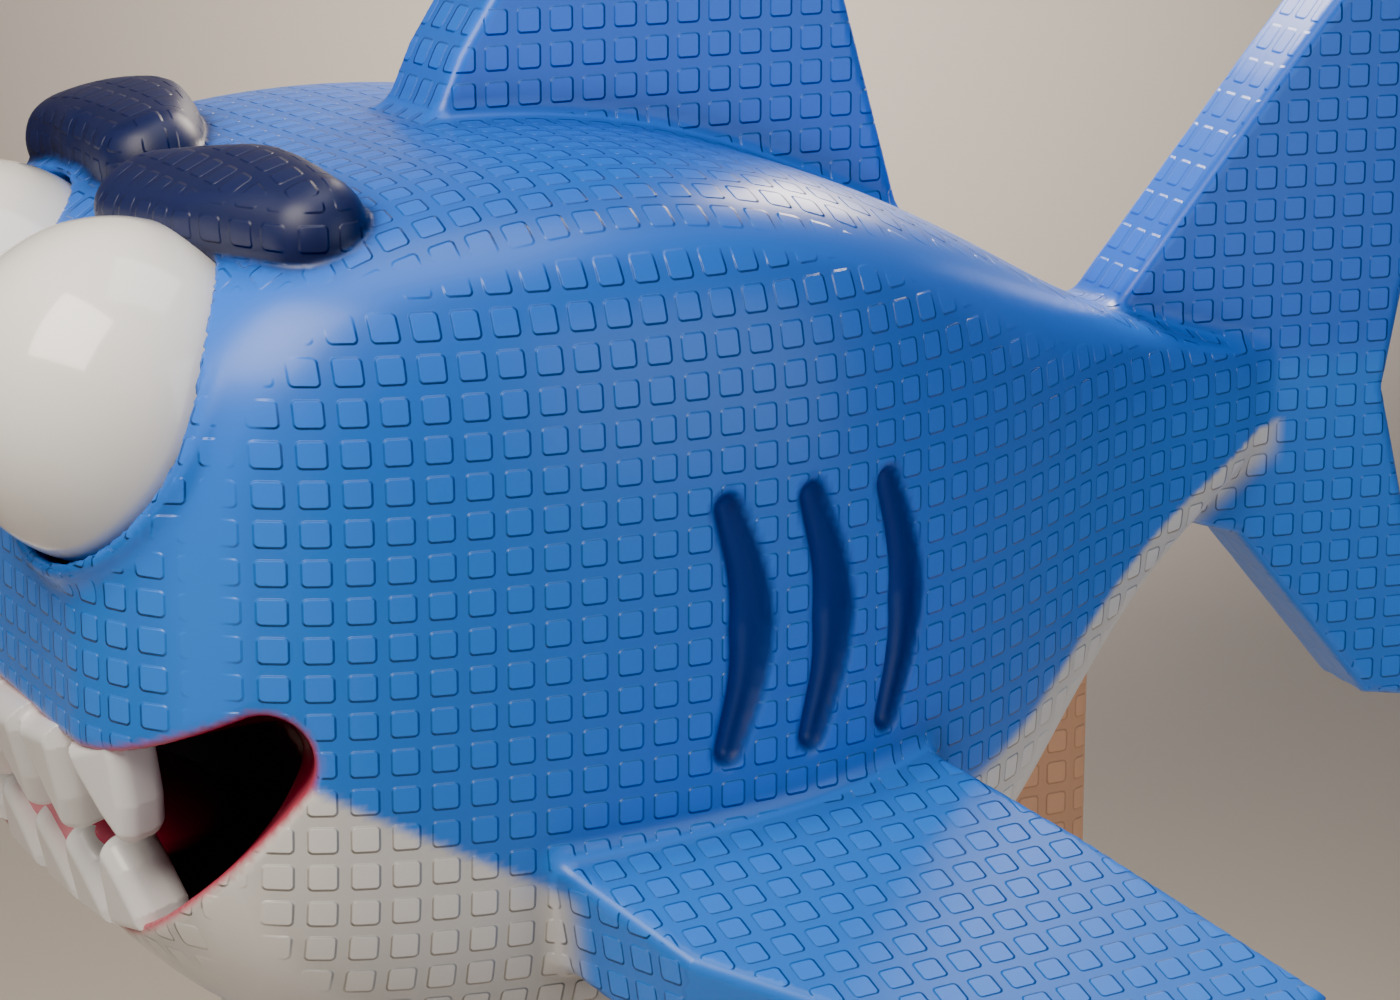
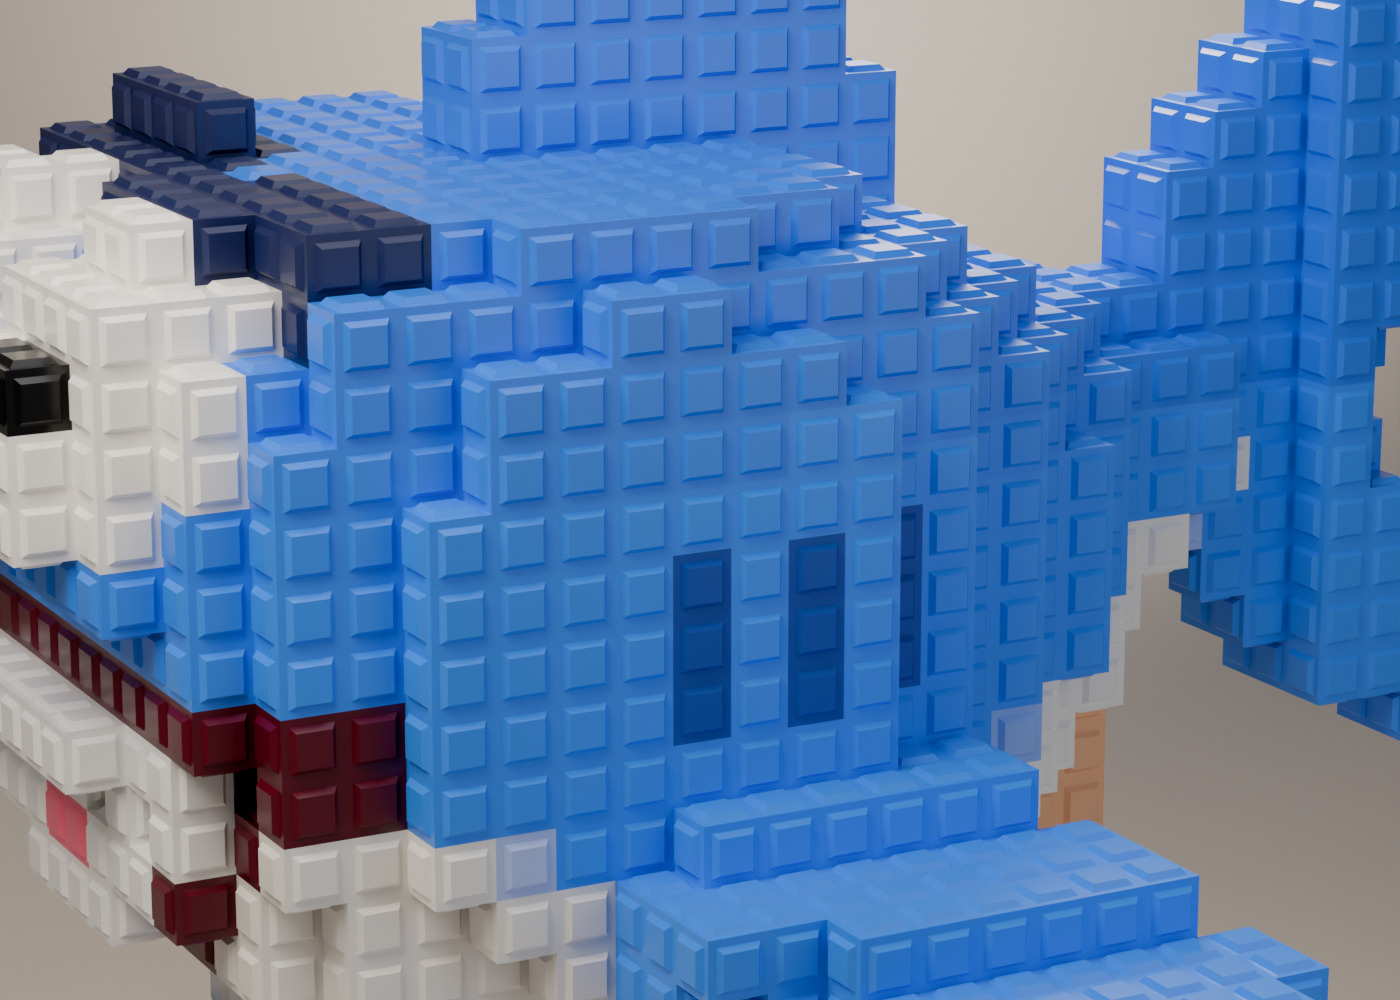
Rebuild the Tralalero benchmark as a brick-built model
Match the brick-built look of popular Roblox brainrot games with our own
design: the Tralalero distance fields are sampled on a grid of 0.2-stud
bricks, every visible brick face gets a raised bevelled square stud, and
each brick takes one flat colour from the character's paint.

Brick-sized details are drawn explicitly so they read cleanly: blocky
eyes with black pupil bricks, three gill stripes, sock band, white laces,
and a white sole with a dark bottom layer. The body used for bricks skips
the gill grooves, which are thinner than a brick.

Adds tools/models/bricks.py and a --bricks option to build.py.

Claude-Session: https://claude.ai/code/session_01XpVJoYHCbEBYXTu2jdQB4F

diff --git a/tools/models/build.py b/tools/models/build.py
@@ -22,6 +22,7 @@ HERE = Path(__file__).resolve().parent
 sys.path.insert(0, str(HERE))
 sys.path.insert(0, str(HERE / "characters"))
 
+import bricks  # noqa: E402
 import scene  # noqa: E402
 import sdf  # noqa: E402
 
@@ -211,6 +212,53 @@ def studio(azimuth, target, radius):
     scene.world(color="#dfe3ea", strength=0.25)
 
 
+def build_bricks(look, meshes, size):
+    """The character rebuilt from studded bricks: one flat-shaded mesh with per-brick colours."""
+    t0 = time.time()
+    parts = [m[0] for m in meshes]
+    fns = [p.get("brick_fn", p["fn"]) for p in parts]
+    eyes = getattr(look, "EYES", [])
+    for eye in eyes:
+        fns.append(lambda p, e=eye: sdf.sphere(p, e["center"], e["radius"]))
+    los = [np.asarray(p["box"][0]) for p in parts] + [e["center"] - e["radius"] for e in eyes]
+    his = [np.asarray(p["box"][1]) for p in parts] + [e["center"] + e["radius"] for e in eyes]
+    lo = np.min(los, axis=0)
+    lo[2] = 0.0
+    origin, solid, owner, _ = bricks.voxelize(fns, lo, np.max(his, axis=0), size)
+    colors = np.zeros(solid.shape + (3,))
+    rough = np.full(solid.shape, 0.42)
+    shows = np.any(bricks.exposed_faces(solid), axis=0)
+    for k, fn in enumerate(fns):
+        idx = np.argwhere(shows & (owner == k))
+        if not len(idx):
+            continue
+        centres = origin + (idx + 0.5) * size
+        if k < len(parts):
+            part = parts[k]
+            paint = part.get("base_paint", part["paint"])
+            col, attrs, points, normals = bricks.surface_colors(fn, paint, centres, size)
+            if hasattr(look, "brick_colors"):
+                col = look.brick_colors(part["name"], points, normals, col, size)
+            r = attrs["Roughness"]
+        else:
+            eye = eyes[k - len(parts)]
+            col, r = look.brick_eye_colors(eye, centres, size)
+        colors[idx[:, 0], idx[:, 1], idx[:, 2]] = col
+        rough[idx[:, 0], idx[:, 1], idx[:, 2]] = r
+    packed = np.concatenate([colors, rough[..., None]], axis=-1)
+    verts, faces, cols, _ = bricks.brick_mesh(origin, size, solid, packed)
+    n = len(verts)
+    attrs = {
+        "Roughness": cols[:, 3],
+        "CoatWeight": np.full(n, 0.08),
+        "SubsurfaceWeight": np.zeros(n),
+        "SheenWeight": np.zeros(n),
+        "Studs": np.zeros(n),
+    }
+    print(f"bricks: {int(solid.sum()):,} bricks, {int(shows.sum()):,} showing, {len(faces):,} triangles in {time.time() - t0:.1f}s", flush=True)
+    return verts, faces, cols[:, :3], attrs
+
+
 def main():
     parser = argparse.ArgumentParser()
     parser.add_argument("character")
@@ -223,6 +271,7 @@ def main():
     parser.add_argument("--skip", default="", help="comma-separated part names to leave out (debugging)")
     parser.add_argument("--decimate", type=int, default=None, help="preview at a game budget: total triangles")
     parser.add_argument("--game", action="store_true", help="render the in-game meshes: each part cut to its budget")
+    parser.add_argument("--bricks", type=float, default=None, help="build the character from studded bricks of this size")
     args = parser.parse_args()
 
     geometry = importlib.import_module(args.character)
@@ -244,7 +293,11 @@ def main():
         col, attrs = part["paint"](verts, normals)
         painted.append((part, verts, faces, normals, col, attrs))
 
-    all_points = np.vstack([m[1][:: max(1, len(m[1]) // 3000)] for m in meshes])
+    brick_model = build_bricks(look, meshes, args.bricks) if args.bricks else None
+    if brick_model:
+        all_points = brick_model[0][:: max(1, len(brick_model[0]) // 6000)]
+    else:
+        all_points = np.vstack([m[1][:: max(1, len(m[1]) // 3000)] for m in meshes])
     lo = all_points.min(axis=0)
     hi = all_points.max(axis=0)
     for name in args.views.split(","):
@@ -254,13 +307,17 @@ def main():
         mat = surface_material()
         total = sum(len(p[2]) for p in painted)
         tris = {}
-        for part, verts, faces, normals, col, attrs in painted:
+        if brick_model:
+            bverts, bfaces, bcols, battrs = brick_model
+            scene.mesh_object("Bricks", bverts, bfaces, colors=bcols, attributes=battrs, material=mat, parent=root, smooth=False)
+        for part, verts, faces, normals, col, attrs in ([] if brick_model else painted):
             obj = scene.mesh_object(part["name"], verts, faces, vertex_normals=normals, colors=col, attributes=attrs, material=mat, parent=root)
             if args.game:
                 tris[part["name"]] = scene.decimate(obj, part["budget"] / len(faces), sharp_angle=part.get("sharp", 50))
             elif args.decimate:
                 scene.decimate(obj, args.decimate / total)
-        add_eyes(look, root, game=args.game)
+        if not brick_model:
+            add_eyes(look, root, game=args.game)
         if tris and name == args.views.split(",")[0]:
             eyes = 2 * (32 * 2 + 32 * 14 * 2)
             print("game triangles:", ", ".join(f"{k} {v:,}" for k, v in tris.items()), f"+ eyes {eyes:,}", f"= {sum(tris.values()) + eyes:,}", flush=True)
@@ -309,6 +366,8 @@ def main():
             scene.silhouette()
         t1 = time.time()
         suffix = "_game" if args.game else (f"_{args.decimate // 1000}k" if args.decimate else "")
+        if brick_model:
+            suffix = "_bricks" + suffix
         path = out / f"{geometry.ID}_{name}{suffix}.png"
         scene.render(path)
         print(f"rendered {path.name} in {time.time() - t1:.1f}s", flush=True)

diff --git a/tools/models/bricks.py b/tools/models/bricks.py
@@ -1,0 +1,119 @@
+"""Brick-built characters: turn a character's distance fields into a model made of studded bricks.
+
+The design is sampled on a grid of cubic bricks (`size` studs each). Every brick face that shows
+gets a raised, bevelled square stud, and each brick takes one flat colour from the character's
+paint, so the result reads as a toy built from small studded blocks rather than a smooth sculpt.
+
+Coordinates follow the rest of the pipeline: x right, y back, z up, 1 unit = 1 Roblox stud.
+The grid is anchored at the origin so the bottom layer of bricks sits on z = 0.
+"""
+
+from __future__ import annotations
+
+import numpy as np
+
+import sdf
+
+# The six face directions: (axis, sign)
+DIRECTIONS = [(0, 1), (0, -1), (1, 1), (1, -1), (2, 1), (2, -1)]
+
+
+def voxelize(fns, lo, hi, size, grow=0.3):
+    """Sample the fields at brick centres.
+
+    `fns` is a list of distance functions (one per part). A brick is solid where the nearest part's
+    distance is below `grow` * size (a slight dilation so thin fins and teeth stay connected).
+    Returns (origin, solid (nx, ny, nz) bool, owner (nx, ny, nz) int part index, distance).
+    """
+    lo = np.floor(np.asarray(lo, dtype=np.float64) / size) * size
+    hi = np.ceil(np.asarray(hi, dtype=np.float64) / size) * size
+    counts = np.round((hi - lo) / size).astype(int)
+    axes = [lo[i] + (np.arange(counts[i]) + 0.5) * size for i in range(3)]
+    centres = np.stack(np.meshgrid(*axes, indexing="ij"), axis=-1).reshape(-1, 3)
+    dist = np.stack([sdf.evaluate(fn, centres) for fn in fns])
+    owner = np.argmin(dist, axis=0)
+    dmin = dist[owner, np.arange(len(centres))]
+    solid = (dmin < grow * size).reshape(counts)
+    return lo, solid, owner.reshape(counts), dmin.reshape(counts)
+
+
+def exposed_faces(solid):
+    """For each direction, a boolean grid of bricks whose face in that direction shows."""
+    out = []
+    for axis, sign in DIRECTIONS:
+        neighbour = np.zeros_like(solid)
+        src = [slice(None)] * 3
+        dst = [slice(None)] * 3
+        if sign > 0:
+            src[axis] = slice(1, None)
+            dst[axis] = slice(None, -1)
+        else:
+            src[axis] = slice(None, -1)
+            dst[axis] = slice(1, None)
+        neighbour[tuple(dst)] = solid[tuple(src)]
+        out.append(solid & ~neighbour)
+    return out
+
+
+def brick_mesh(origin, size, solid, colors, stud=0.1, inset=0.13, top_inset=0.21):
+    """Triangles for every visible brick face plus its raised square stud.
+
+    `colors` is (nx, ny, nz, 3). Returns (verts, faces, colors per vertex, normals per vertex);
+    vertices are not shared between faces so each face keeps its own flat colour and normal.
+    """
+    verts, cols, norms = [], [], []
+    for (axis, sign), mask in zip(DIRECTIONS, exposed_faces(solid)):
+        idx = np.argwhere(mask)
+        if not len(idx):
+            continue
+        n = np.zeros(3)
+        n[axis] = sign
+        u = np.zeros(3)
+        v = np.zeros(3)
+        u[(axis + 1) % 3] = 1
+        v[(axis + 2) % 3] = 1
+        if sign < 0:
+            u, v = v, u  # keep (u, v, n) right-handed so quads wind outward
+        centre = origin + (idx + 0.5) * size + n * size / 2
+        c = colors[idx[:, 0], idx[:, 1], idx[:, 2]]
+        h = size / 2
+
+        def quad(a, b, cc, d, normal):
+            # two triangles a-b-c and a-c-d per brick face, corners kept together per triangle
+            tris = np.stack([a, b, cc, a, cc, d], axis=1)  # (M, 6, 3)
+            verts.append(tris.reshape(-1, 3))
+            cols.append(np.repeat(c, 6, axis=0))
+            norms.append(np.repeat(np.broadcast_to(normal, a.shape), 6, axis=0))
+
+        def ring(offset, half):
+            return [centre + n * offset + u * su * half + v * sv * half for su, sv in ((-1, -1), (1, -1), (1, 1), (-1, 1))]
+
+        base = ring(0.0, h)
+        quad(*base, n)
+        bot = ring(0.0, h - inset * size)
+        top = ring(stud * size, h - top_inset * size)
+        quad(*top, n)
+        for k in range(4):
+            a, b = bot[k], bot[(k + 1) % 4]
+            d, cc = top[k], top[(k + 1) % 4]
+            side_n = np.cross(b - a, d - a)
+            side_n /= np.linalg.norm(side_n, axis=1, keepdims=True)
+            quad(a, b, cc, d, side_n)
+    verts = np.concatenate(verts)
+    cols = np.concatenate(cols)
+    norms = np.concatenate(norms)
+    faces = np.arange(len(verts)).reshape(-1, 3)
+    # make sure every triangle winds outward
+    a, b, c = verts[faces[:, 0]], verts[faces[:, 1]], verts[faces[:, 2]]
+    flip = np.einsum("ij,ij->i", np.cross(b - a, c - a), norms[faces[:, 0]]) < 0
+    faces[flip] = faces[flip][:, ::-1]
+    return verts, faces, cols, norms
+
+
+def surface_colors(fn, paint, centres, size):
+    """Colour bricks from a smooth paint function: project each centre onto the part's surface."""
+    n = sdf.normals(fn, centres, eps=size * 0.05)
+    d = np.clip(sdf.evaluate(fn, centres), -size, size)
+    points = centres - n * d[:, None]
+    col, attrs = paint(points, n)
+    return col, attrs, points, n

diff --git a/tools/models/characters/tralalero_tralala_look.py b/tools/models/characters/tralalero_tralala_look.py
@@ -157,15 +157,63 @@ def with_occlusion(paint, fn, strength=0.8, floor=0.6):
 
 
 PARTS = [
-    {"name": "Body", "fn": g.body, "box": g.BODY_BOX, "step": 0.02, "paint": with_occlusion(paint_body, g.body), "budget": 12000},
+    {"name": "Body", "fn": g.body, "box": g.BODY_BOX, "step": 0.02, "paint": with_occlusion(paint_body, g.body), "base_paint": paint_body, "brick_fn": g.body_for_bricks, "budget": 12000},
     {"name": "Teeth", "fn": g.teeth, "box": g.TEETH_BOX, "step": 0.008, "paint": paint_flat("tooth", 0.3, coat=0.3), "budget": 1800, "sharp": 40},
     {"name": "Tongue", "fn": g.tongue, "box": g.TONGUE_BOX, "step": 0.01, "paint": paint_flat("tongue", 0.4, coat=0.2), "budget": 300},
     *[{"name": f"Sock{i}", "fn": g.SOCK_FNS[i], "box": g.sock_box(i), "step": 0.012, "paint": paint_sock, "budget": 500} for i in range(3)],
     *[
-        {"name": f"Shoe{i}", "fn": g.SHOES[i], "box": g.SHOES[i].box(), "step": 0.012, "paint": with_occlusion(paint_shoe(i), g.SHOES[i]), "budget": 2400}
+        {"name": f"Shoe{i}", "fn": g.SHOES[i], "box": g.SHOES[i].box(), "step": 0.012, "paint": with_occlusion(paint_shoe(i), g.SHOES[i]), "base_paint": paint_shoe(i), "budget": 2400}
         for i in range(3)
     ],
 ]
 
 EYES = [{"center": e["center"], "gaze": e["gaze"], "radius": g.EYE_RADIUS} for e in g.EYES]
 EYE_LOOK = {"iris": None, "pupil_size": 0.62, "highlight": True}
+
+
+# ---------------------------------------------------------------------------------------------
+# Brick-built version: details must be at least a brick wide to show
+# ---------------------------------------------------------------------------------------------
+
+
+def brick_colors(name, points, normals, col, size):
+    """Adjust per-brick colours so small painted details become clean brick-sized pixels."""
+    col = col.copy()
+    if name == "Body":
+        # three gill stripes on each flank, one brick wide with a brick of blue between them
+        side = np.abs(normals[:, 0]) > 0.7
+        gill_zone = side & (points[:, 1] > -1.45) & (points[:, 1] < -0.05) & (np.abs(points[:, 2] - 3.3) < 0.6)
+        col[gill_zone] = PAL["blue"]
+        for y in (-1.15, -0.75, -0.35):
+            stripe = side & (np.abs(points[:, 1] - y) < size * 0.5) & (np.abs(points[:, 2] - 3.3) < 0.36)
+            col[stripe] = PAL["gill"]
+        col[g._brows(points) < size * 0.45] = PAL["brow"]
+        # the open mouth is one dark colour; the tongue and teeth are their own bricks
+        col[g._mouth(points) < size * 0.3] = PAL["mouth"]
+    elif name.startswith("Sock"):
+        band = np.abs(points[:, 2] - (g.SOCK_TOP - 0.24)) < size * 0.5
+        col[:] = PAL["white"]
+        col[band] = PAL["sock_band"]
+    elif name.startswith("Shoe"):
+        # blue sneaker on a white sole with a dark bottom layer, white laces, navy collar
+        shoe = g.SHOES[int(name[-1])]
+        z = points[:, 2]
+        col[:] = PAL["shoe"]
+        col[z < size * 2] = PAL["white"]
+        col[z < size] = PAL["outsole"]
+        collar = shoe._collar(np.stack(shoe.local(points), axis=-1)) < size * 0.3
+        col[collar & (z >= size * 2)] = PAL["shoe_dark"]
+        u, v, _ = shoe.local(points)
+        top = normals[:, 2] > 0.6
+        laces = top & (np.abs(v) < 0.1) & (u > 0.42) & (u < 0.86) & (z >= size * 2)
+        col[laces] = PAL["white"]
+    return col
+
+
+def brick_eye_colors(eye, centres, size):
+    """Eye bricks: white, with a block of black pupil bricks where the eye looks."""
+    d = centres - eye["center"]
+    d /= np.linalg.norm(d, axis=1, keepdims=True)
+    col = np.tile(PAL["white"], (len(centres), 1))
+    col[d @ eye["gaze"] > 0.9] = srgb("#0b0b10")
+    return col, np.full(len(centres), 0.25)

diff --git a/tools/models/scene.py b/tools/models/scene.py
@@ -37,8 +37,8 @@ def reset():
     bpy.ops.wm.read_factory_settings(use_empty=True)
 
 
-def mesh_object(name, verts, faces, vertex_normals=None, colors=None, attributes=None, material=None, parent=None):
-    """A mesh object from numpy arrays, smooth shaded.
+def mesh_object(name, verts, faces, vertex_normals=None, colors=None, attributes=None, material=None, parent=None, smooth=True):
+    """A mesh object from numpy arrays, smooth shaded (or flat with `smooth=False`).
 
     `colors` (N, 3) linear RGB per vertex become the "Col" attribute; `attributes` maps extra
     per-vertex float attribute names to (N,) arrays (roughness, subsurface ...).
@@ -60,7 +60,7 @@ def mesh_object(name, verts, faces, vertex_normals=None, colors=None, attributes
     me.polygons.add(len(faces))
     me.polygons.foreach_set("loop_start", np.arange(0, faces.size, 3, dtype=np.int32))
     me.update()
-    me.polygons.foreach_set("use_smooth", np.ones(len(faces), dtype=bool))
+    me.polygons.foreach_set("use_smooth", np.full(len(faces), smooth, dtype=bool))
     if vertex_normals is not None:
         me.normals_split_custom_set_from_vertices(np.asarray(vertex_normals, dtype=np.float32))
     if colors is not None:

diff --git a/tools/models/characters/tralalero_tralala.py b/tools/models/characters/tralalero_tralala.py
@@ -295,7 +295,7 @@ _gills = sdf.bounded(gills, (-1.8, -1.4, 2.5), (1.8, 0.0, 4.2))
 _legs = sdf.bounded(legs, (-1.5, -1.6, 0.4), (1.5, 1.4, 3.3))
 
 
-def shark(p):
+def shark(p, gill_grooves=True):
     """The shark without legs: body, fins and face."""
     d = BODY(p)
     d = smin(d, _dorsal(p), 0.07)
@@ -308,12 +308,18 @@ def shark(p):
         d = carve(d, sphere(p, e["center"], EYE_RADIUS + 0.015), 0.02)
     d = smin(d, _brows(p), 0.02)
     d = carve(d, _mouth(p), 0.05)
-    d = carve(d, _gills(p), 0.03)
+    if gill_grooves:
+        d = carve(d, _gills(p), 0.03)
     return d
 
 
 def body(p):
     return smin(shark(p), _legs(p), 0.07)
+
+
+def body_for_bricks(p):
+    """The body without gill grooves: thinner than a brick, they are painted on instead."""
+    return smin(shark(p, gill_grooves=False), _legs(p), 0.07)
 
 
 BODY_BOX = ((-3.5, -3.0, 0.5), (3.5, 3.1, 6.35))

diff --git a/tools/models/README.md b/tools/models/README.md
@@ -7,8 +7,8 @@ cubes turns into a mesh. Blender (as a Python module) paints, lights and renders
 ```
 tools/models/setup.sh                      # venv with bpy 4.5, numpy, scipy, scikit-image
 .venv/bin/python tools/models/build.py tralalero_tralala --quality preview --views threequarter
-.venv/bin/python tools/models/build.py tralalero_tralala --quality final \
-    --views threequarter,front,side,thumbnail,scale
+.venv/bin/python tools/models/build.py tralalero_tralala --quality final --bricks 0.2 \
+    --views threequarter,front,side,surface,thumbnail,scale,gameplay
 ```
 
 - `sdf.py`: distance-field shapes (`Loft` bodies with round or rounded-box sections, `Blade` fins,
@@ -24,6 +24,11 @@ tools/models/setup.sh                      # venv with bpy 4.5, numpy, scipy, sc
   `surface` for a close-up of the stud surface, and `silhouette` / `silhouette_side` as flat black
   shapes). `--game` renders the in-game meshes, each part cut to its triangle budget;
   `--skip Teeth,Tongue` leaves parts out while debugging.
+- `bricks.py`: the brick-built style (`--bricks 0.2`). The same design is sampled on a grid of
+  cubic bricks; every brick face that shows gets a raised square stud, and each brick takes one
+  flat colour from the character's paint. A character can adjust brick colours in its look module
+  (`brick_colors`, `brick_eye_colors`) so small details become clean brick-sized pixels, and give a
+  part a `brick_fn` without details thinner than a brick.
 - `characters/<name>.py`: the character's geometry; `characters/<name>_look.py`: its paint and
   surface properties (kept apart so recoloring does not re-sculpt).
 
